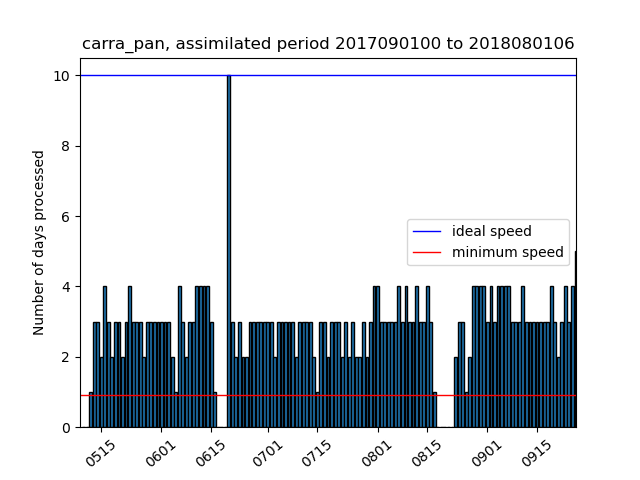
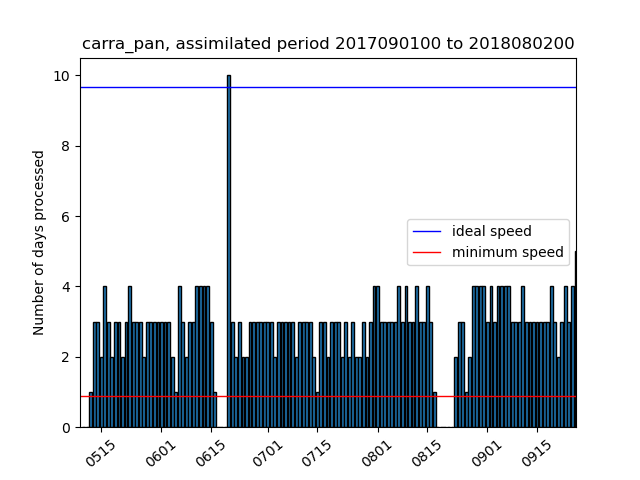
update repo

Changed region(s): [[0.125, 0.8125, 0.9062, 0.8438], [0.125, 0.1562, 0.9062, 0.1875], [0.8438, 0.0625, 0.9062, 0.0938]]

diff --git a/current_state_sims.html b/current_state_sims.html
@@ -2,18 +2,18 @@
 <h1>Estimated completion dates and simulation speeds</h1>
 <p>Stream (production) completion date based on 30d (7d) moving avg speed</p>
 <p><a href="https://docs.google.com/document/d/1zDKAxuEXYnWWYzT3SZnZwY5WW8nodUMeYRjAGz46coc/edit#">Details of the calculation of the completion dates</a></p>
-<p>Last update: 2021/09/27 06:48:29 UTC</p>
+<p>Last update: 2021/09/27 12:41:07 UTC</p>
 <p>Total progress CARRA: 99.33% <a href="https://hirlam.org/portal/CARRA/Progress/GanntChart_CARRA.html"> (see detailed progress meter in Gantt chart) </a></p>
 <p>Total progress PANARCTIC: 100.0% </p>
 <p><a href="https://hirlam.org/portal/CARRA/Progress/waiting_times.html"> Queue waiting times for all streams</a></p>
 <p><a href="https://hirlam.org/portal/CARRA/Progress/mars_status.html"> MARS archive throughput </a></p>
 <html><table border="1"><tr><th>expId</th><th>Current assimilated date</th><th>End date of stream </th><th> Completion date</th><th> Avg. throughput (7d) </th> <th>Avg. throughput (30d) </th> <th> Remarks</tr>
-<tr bgcolor="#FFFFFF"><td>carra_NE_3</td><td>2021063000</td><td>2021063021</td><td>2021092706</td><td>(0.57) days/day</td><td>(3.57) days/day</td><td></tr>
+<tr bgcolor="#FFFFFF"><td>carra_NE_3</td><td>2021063000</td><td>2021063021</td><td>2021092712</td><td>(0.57) days/day</td><td>(3.57) days/day</td><td></tr>
 <tr bgcolor="#33FF38"><td>carra_NE_4</td><td>1992090100</td><td>1992083021</td><td>Finished on 20210824</td><td>(0.0) days/day</td><td>(0.0) days/day</td><td>Stream finished</tr>
 <tr bgcolor="#33FF38"><td>carra_NE_5</td><td>1994090100</td><td>1994083021</td><td>Finished on 20210824</td><td>(0.0) days/day</td><td>(0.0) days/day</td><td>Stream finished</tr>
-<tr bgcolor="#33FF38"><td>carra_NE_6</td><td>1997070100</td><td>1997063021</td><td>2021092701</td><td>(0.0) days/day</td><td>(4.33) days/day</td><td>Stream finished</tr>
-<tr bgcolor="#FFFFFF"><td>carra_IGB_3</td><td>2021063000</td><td>2021063021</td><td>2021092706</td><td>(1.29) days/day</td><td>(3.43) days/day</td><td></tr>
-<tr bgcolor="#33FF38"><td>carra_IGB_4</td><td>1992090100</td><td>1992083021</td><td>2021092609</td><td>(0.0) days/day</td><td>(2.23) days/day</td><td>Stream finished</tr>
-<tr bgcolor="#33FF38"><td>carra_IGB_5</td><td>1994090100</td><td>1994083021</td><td>2021092622</td><td>(4.71) days/day</td><td>(5.6) days/day</td><td>Stream finished</tr>
-<tr bgcolor="#FFA500"><td>carra_IGB_6</td><td>1996120712</td><td>1997063021</td><td>2021110100</td><td>(6.43) days/day</td><td>(5.9) days/day</td><td>Completion date after project end (20211031)</tr>
-<tr bgcolor="#FFFFFF"><td>carra_pan</td><td>2018080106</td><td>2018083121</td><td>2021100522</td><td>(3.43) days/day</td><td>(3.47) days/day</td><td></tr>
+<tr bgcolor="#33FF38"><td>carra_NE_6</td><td>1997070100</td><td>1997063021</td><td>2021092707</td><td>(0.0) days/day</td><td>(4.33) days/day</td><td>Stream finished</tr>
+<tr bgcolor="#FFFFFF"><td>carra_IGB_3</td><td>2021063000</td><td>2021063021</td><td>2021092712</td><td>(1.29) days/day</td><td>(3.43) days/day</td><td></tr>
+<tr bgcolor="#33FF38"><td>carra_IGB_4</td><td>1992090100</td><td>1992083021</td><td>2021092615</td><td>(0.0) days/day</td><td>(2.23) days/day</td><td>Stream finished</tr>
+<tr bgcolor="#33FF38"><td>carra_IGB_5</td><td>1994090100</td><td>1994083021</td><td>2021092704</td><td>(4.71) days/day</td><td>(5.6) days/day</td><td>Stream finished</tr>
+<tr bgcolor="#FFFFFF"><td>carra_IGB_6</td><td>1996120900</td><td>1997063021</td><td>2021103122</td><td>(6.43) days/day</td><td>(5.9) days/day</td><td></tr>
+<tr bgcolor="#FFFFFF"><td>carra_pan</td><td>2018080200</td><td>2018083121</td><td>2021100521</td><td>(3.43) days/day</td><td>(3.47) days/day</td><td></tr>
